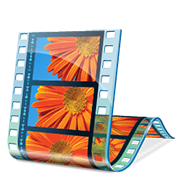
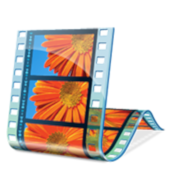
Acerto nas imagens

diff --git a/_css/estilo.css b/_css/estilo.css
@@ -39,8 +39,9 @@ a:hover{
 
 header#cabecalho img#icone{
     position: relative;
-    left: 730px;
-    top: -30px
+    left: 680px;
+    top: -30px;
+    height: 130px; /* não existia */
 
 }
 
@@ -107,9 +108,9 @@ nav#menu {
 nav#menu ul{
     list-style: none;
     text-transform: uppercase;
-    position: absolute;
-    top: -20px;
-    left: 750px;
+    position: relative;
+    top: -268px;
+    left: 260px;
 }
 
 nav#menu li {
